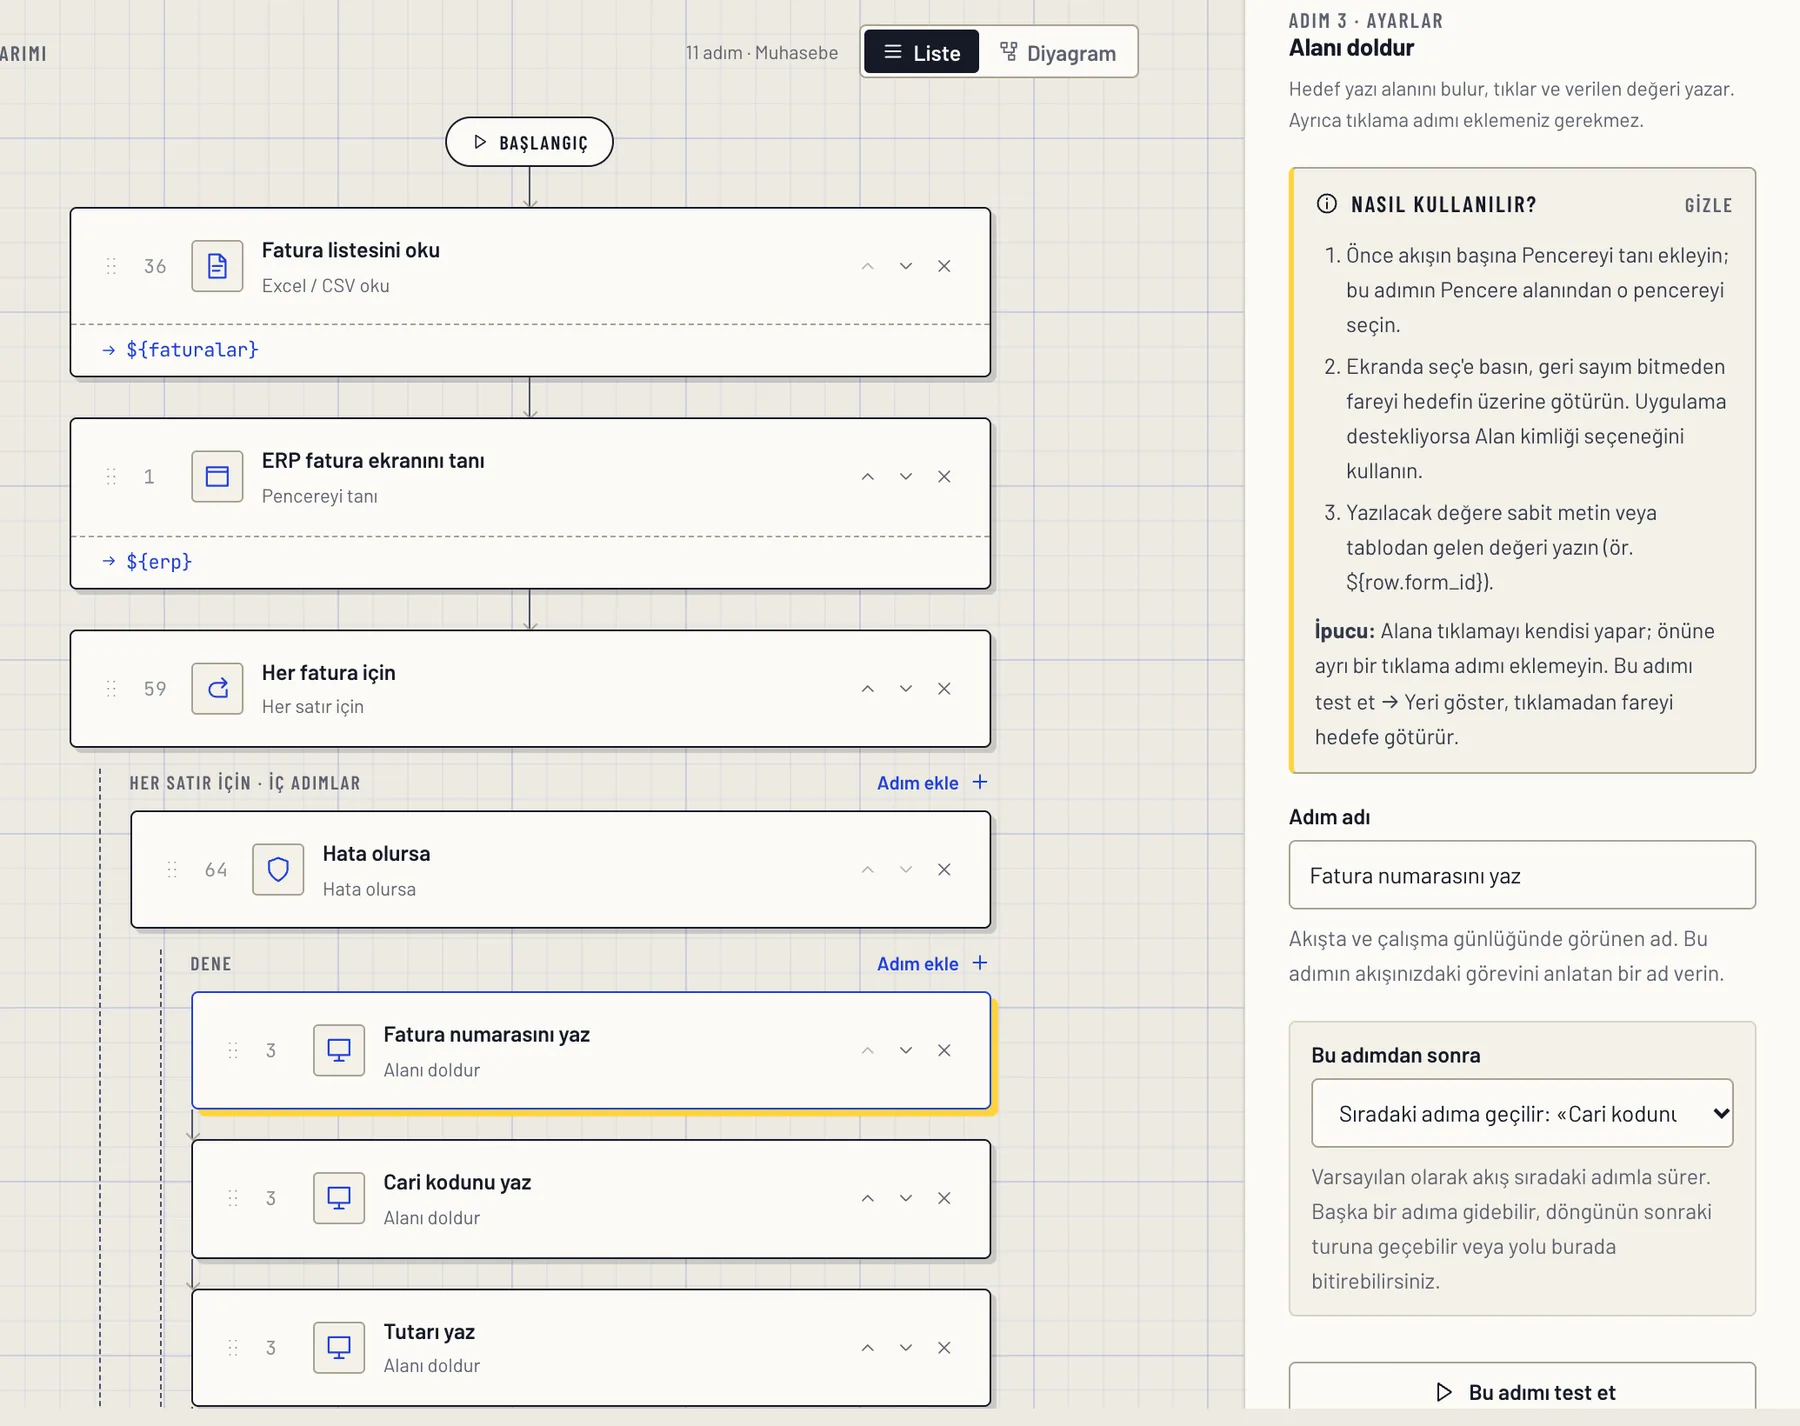
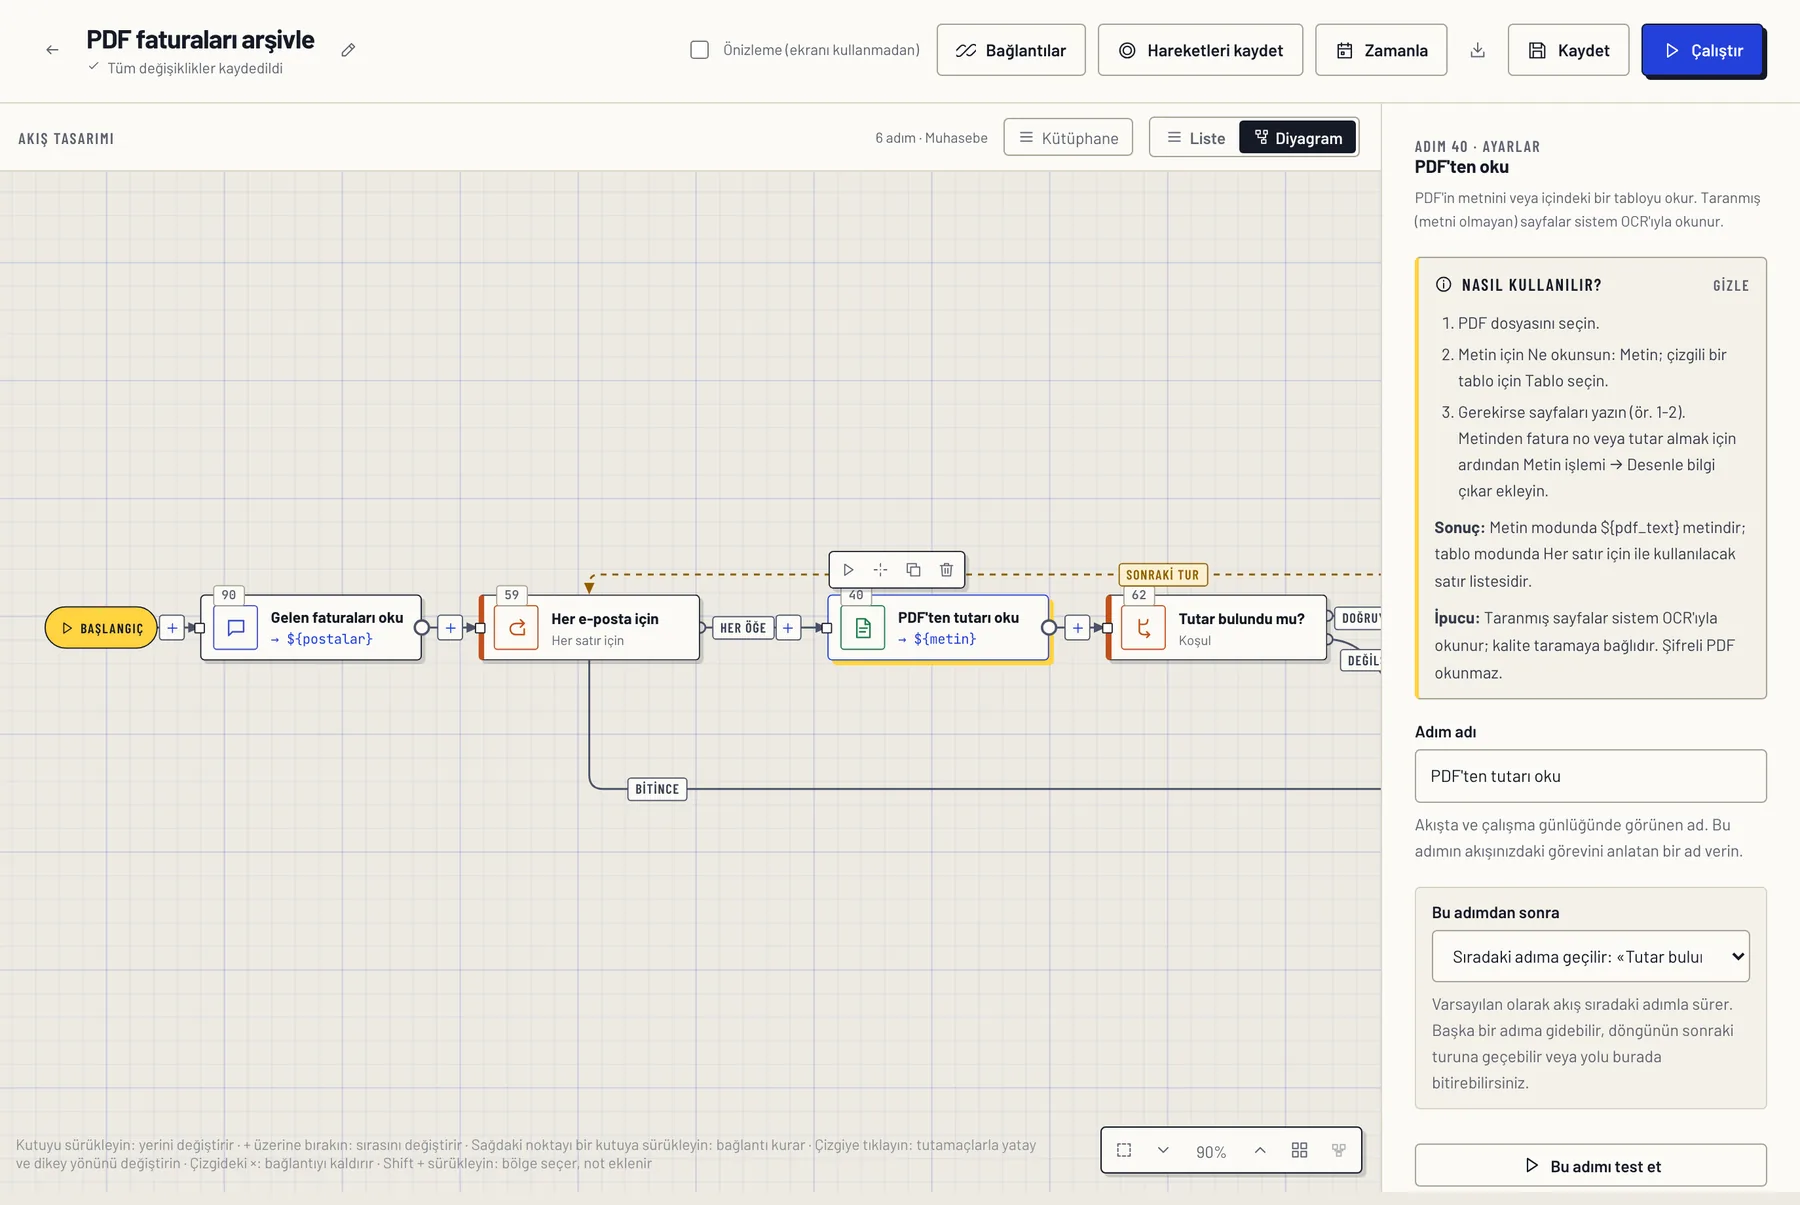
Site: akış görüntüleri diyagram görünümünde
Tanıtım görseli, ürün turunun ilk üç adımı ve altı örnek akış Studio'nun diyagram görünümünden alındı (açık ve koyu
tema); örnek akışlar zincir yerine kendi diyagramlarıyla, büyütmek için tıklanabilir.

Changed region(s): [[0.0, 0.0, 0.9956, 1.0], [0.0, 0.0, 0.2178, 0.0614]]

diff --git a/web/index.html b/web/index.html
@@ -9,7 +9,7 @@
 <title>Peyrev · Masaüstü akış stüdyosu</title>
 <link rel="icon" href="/assets/peyrev-mark-32.png">
 <link rel="apple-touch-icon" href="/assets/peyrev-mark-180.png">
-<link rel="stylesheet" href="/assets/site.css?v=aeb100f76f">
+<link rel="stylesheet" href="/assets/site.css?v=85a8690fc8">
 <script src="/assets/site.js?v=97facf07ab" defer></script>
 </head>
 <body>
@@ -55,8 +55,8 @@
     </div>
     <div class="wrap">
       <figure class="shot shot-hero">
-        <img src="/assets/ekran/editor-koyu.webp" width="2000" height="1250" decoding="async"
-          alt="Peyrev akış düzenleyicisi: solda adım kütüphanesi, ortada Excel'den ERP'ye fatura girişi akışı, sağda kullanım rehberi.">
+        <img src="/assets/ekran/hero-diyagram-koyu.webp" width="2000" height="1250" decoding="async"
+          alt="Peyrev akış düzenleyicisinde diyagram: sipariş kontrolü akışının döngüsü, koşulu ve son çalışmanın izleri; sağda seçili Koşul adımının ayarları.">
       </figure>
     </div>
     <div class="wrap">
@@ -82,8 +82,8 @@
           <p class="tour-step">01 · Tasarlayın</p>
           <h3 id="tur-1">Adımları kütüphaneden seçin, akış kendiliğinden kurulsun.</h3>
           <p>Pencere, fare ve klavye, ekran, dosya ve Excel, veri, Google Sheets, veritabanı, web, e-posta ve API
-            kategorilerindeki 93 adımdan istediğinizi ekleyin. Bir adımın çıktısı sonraki adımda değişken olarak
-            kullanılır; akış liste olarak okunur.</p>
+            kategorilerindeki 93 adımdan istediğinizi diyagrama ekleyin. Bir adımın çıktısı sonraki adımda değişken
+            olarak kullanılır; akış başlangıçtan bitişe soldan sağa okunur.</p>
           <ul class="checks">
             <li>Adım arama ve sık kullanılanlar</li>
             <li>Hareketleri kaydederek adım oluşturma</li>
@@ -94,7 +94,7 @@
           <picture>
             <source media="(prefers-color-scheme: dark)" srcset="/assets/ekran/tur-editor-koyu.webp">
             <img src="/assets/ekran/tur-editor.webp" width="1800" height="1205" loading="lazy" decoding="async"
-              alt="Akış düzenleyicisinde adım kütüphanesi ve fatura girişi akışının adımları.">
+              alt="Diyagram görünümünde adım kütüphanesi ve Excel'den ERP'ye fatura girişi akışının başlangıcı.">
           </picture>
         </figure>
       </article>
@@ -113,8 +113,11 @@
           </ul>
         </div>
         <figure class="shot">
-          <img src="/assets/ekran/tur-diyagram.webp" width="1800" height="704" loading="lazy" decoding="async"
-            alt="Sipariş kontrolü akışının diyagram görünümü: döngü, koşul ve departman raporu adımları.">
+          <picture>
+            <source media="(prefers-color-scheme: dark)" srcset="/assets/ekran/tur-diyagram-koyu.webp">
+            <img src="/assets/ekran/tur-diyagram.webp" width="1800" height="1364" loading="lazy" decoding="async"
+              alt="Kritik stok uyarısı akışının diyagramı: her ürün için döngü, koşulun doğru ve değilse yolları.">
+          </picture>
         </figure>
       </article>
 
@@ -134,8 +137,8 @@
         <figure class="shot">
           <picture>
             <source media="(prefers-color-scheme: dark)" srcset="/assets/ekran/tur-ayar-koyu.webp">
-            <img src="/assets/ekran/tur-ayar.webp" width="1800" height="1426" loading="lazy" decoding="async"
-              alt="Alanı doldur adımının ayarları ve nasıl kullanılır rehberi.">
+            <img src="/assets/ekran/tur-ayar.webp" width="1800" height="1205" loading="lazy" decoding="async"
+              alt="Diyagramda seçili PDF'ten oku adımının ayarları ve nasıl kullanılır rehberi.">
           </picture>
         </figure>
       </article>
@@ -229,61 +232,99 @@
       <div class="section-head center">
         <p class="kicker">Örnek akışlar</p>
         <h2 id="ornek-baslik">Her departmanın tekrar eden bir işi var.</h2>
-        <p class="section-lead">Adların her biri Peyrev'in adım kütüphanesindeki gerçek adımlardır.</p>
+        <p class="section-lead">Diyagramlar Peyrev'de kurulmuş örnek akışlardır; her kutu adım kütüphanesindeki gerçek bir
+          adımdır. Büyütmek için diyagrama tıklayın.</p>
       </div>
       <ul class="examples">
         <li class="example">
-          <p class="example-dept">Muhasebe</p>
-          <h3>Fatura girişi: Excel'den ERP'ye</h3>
-          <p>Excel'deki faturaları ERP'nin fatura ekranına satır satır girer; giremediğini not eder, sonucu e-postayla bildirir.</p>
-          <ol class="chain">
-            <li>Excel / CSV oku</li><li>Pencereyi tanı</li><li class="loop">Her satır için</li><li>Alanı doldur</li>
-            <li>Pencerede tıkla</li><li class="guard">Hata olursa</li><li>E-posta gönder</li>
-          </ol>
+          <div class="example-text">
+            <p class="example-dept">Muhasebe</p>
+            <h3>Fatura girişi: Excel'den ERP'ye</h3>
+            <p>Excel'deki faturaları ERP'nin fatura ekranına satır satır girer; giremediğini not eder, işlenenleri raporlar ve muhasebeye e-postayla bildirir.</p>
+          </div>
+          <a class="example-diagram" href="/assets/ekran/akis/fatura.webp" target="_blank" rel="noopener"
+            aria-label="Fatura girişi: Excel'den ERP'ye diyagramını büyük aç">
+            <picture>
+              <source media="(prefers-color-scheme: dark)" srcset="/assets/ekran/akis/fatura-koyu.webp">
+              <img src="/assets/ekran/akis/fatura.webp" width="2400" height="249" loading="lazy" decoding="async"
+                alt="Fatura girişi: Excel'den ERP'ye akışının Peyrev'deki diyagramı.">
+            </picture>
+          </a>
         </li>
         <li class="example">
-          <p class="example-dept">Finans</p>
-          <h3>Günlük döviz kurları</h3>
-          <p>Kur sayfasındaki tabloyu okur, Excel'e yazar ve ekibe mesaj gönderir. Her sabah 09.00'da kendiliğinden.</p>
-          <ol class="chain">
-            <li>Web sayfası aç</li><li>Web tablosunu oku</li><li>Excel / CSV'ye yaz</li><li>Mesaj gönder</li>
-          </ol>
+          <div class="example-text">
+            <p class="example-dept">Finans</p>
+            <h3>Günlük döviz kurları</h3>
+            <p>Kur sayfasındaki tabloyu okur, Excel'e yazar ve ekibe Telegram'dan bildirir. Hafta içi her sabah 09.00'da kendiliğinden.</p>
+          </div>
+          <a class="example-diagram" href="/assets/ekran/akis/kur.webp" target="_blank" rel="noopener"
+            aria-label="Günlük döviz kurları diyagramını büyük aç">
+            <picture>
+              <source media="(prefers-color-scheme: dark)" srcset="/assets/ekran/akis/kur-koyu.webp">
+              <img src="/assets/ekran/akis/kur.webp" width="2400" height="262" loading="lazy" decoding="async"
+                alt="Günlük döviz kurları akışının Peyrev'deki diyagramı.">
+            </picture>
+          </a>
         </li>
         <li class="example">
-          <p class="example-dept">Muhasebe</p>
-          <h3>PDF faturaları arşivle</h3>
-          <p>Gelen kutusundaki faturaların PDF'ini okur; tutar bulunursa ay klasörüne taşır, bulunamazsa kontrole bırakır.</p>
-          <ol class="chain">
-            <li>E-postaları oku</li><li class="loop">Her satır için</li><li>PDF'ten oku</li><li class="branch">Koşul</li>
-            <li>Dosya kopyala / taşı</li>
-          </ol>
+          <div class="example-text">
+            <p class="example-dept">Muhasebe</p>
+            <h3>PDF faturaları arşivle</h3>
+            <p>Gelen kutusundaki faturaların PDF'ini okur; tutar bulunursa ay klasörüne taşır, bulunamazsa kontrole bırakır.</p>
+          </div>
+          <a class="example-diagram" href="/assets/ekran/akis/pdf.webp" target="_blank" rel="noopener"
+            aria-label="PDF faturaları arşivle diyagramını büyük aç">
+            <picture>
+              <source media="(prefers-color-scheme: dark)" srcset="/assets/ekran/akis/pdf-koyu.webp">
+              <img src="/assets/ekran/akis/pdf.webp" width="2400" height="393" loading="lazy" decoding="async"
+                alt="PDF faturaları arşivle akışının Peyrev'deki diyagramı.">
+            </picture>
+          </a>
         </li>
         <li class="example">
-          <p class="example-dept">Depo</p>
-          <h3>Kritik stok uyarısı</h3>
-          <p>Veritabanındaki stokları iki saatte bir denetler; eşiğin altındaki ürünleri satın almaya bildirir.</p>
-          <ol class="chain">
-            <li>Veritabanı sorgusu</li><li class="loop">Her satır için</li><li class="branch">Koşul</li>
-            <li>Listeye ekle</li><li>Mesaj gönder</li>
-          </ol>
+          <div class="example-text">
+            <p class="example-dept">Depo</p>
+            <h3>Kritik stok uyarısı</h3>
+            <p>Veritabanındaki stokları iki saatte bir denetler; eşiğin altındaki ürünleri listeler ve satın almaya bildirir.</p>
+          </div>
+          <a class="example-diagram" href="/assets/ekran/akis/stok.webp" target="_blank" rel="noopener"
+            aria-label="Kritik stok uyarısı diyagramını büyük aç">
+            <picture>
+              <source media="(prefers-color-scheme: dark)" srcset="/assets/ekran/akis/stok-koyu.webp">
+              <img src="/assets/ekran/akis/stok.webp" width="2400" height="392" loading="lazy" decoding="async"
+                alt="Kritik stok uyarısı akışının Peyrev'deki diyagramı.">
+            </picture>
+          </a>
         </li>
         <li class="example">
-          <p class="example-dept">Satış</p>
-          <h3>Web formuna toplu kayıt</h3>
-          <p>Google Sheets'teki müşteri listesini web paneline tek tek girer ve her satırın sonucunu tabloya geri yazar.</p>
-          <ol class="chain">
-            <li>Sheets satırlarını oku</li><li>Web sayfası aç</li><li class="loop">Her satır için</li>
-            <li>Web alanını doldur</li><li>Web öğesine tıkla</li><li>Sheets hücresine yaz</li>
-          </ol>
+          <div class="example-text">
+            <p class="example-dept">Satış</p>
+            <h3>Web formuna toplu kayıt</h3>
+            <p>Google Sheets'teki müşteri listesini web paneline tek tek girer ve her satırın sonucunu tabloya geri yazar.</p>
+          </div>
+          <a class="example-diagram" href="/assets/ekran/akis/web.webp" target="_blank" rel="noopener"
+            aria-label="Web formuna toplu kayıt diyagramını büyük aç">
+            <picture>
+              <source media="(prefers-color-scheme: dark)" srcset="/assets/ekran/akis/web-koyu.webp">
+              <img src="/assets/ekran/akis/web.webp" width="2400" height="214" loading="lazy" decoding="async"
+                alt="Web formuna toplu kayıt akışının Peyrev'deki diyagramı.">
+            </picture>
+          </a>
         </li>
         <li class="example">
-          <p class="example-dept">İnsan kaynakları</p>
-          <h3>Bordro dosyalarını dağıt</h3>
-          <p>Klasördeki bordro PDF'lerini listeler, dosya adındaki sicile göre çalışana e-postayla gönderir.</p>
-          <ol class="chain">
-            <li>Klasördeki dosyaları listele</li><li class="loop">Her satır için</li><li>Metin işlemi</li>
-            <li>Veritabanı sorgusu</li><li>E-posta gönder</li>
-          </ol>
+          <div class="example-text">
+            <p class="example-dept">İnsan kaynakları</p>
+            <h3>Bordro dosyalarını dağıt</h3>
+            <p>Klasördeki bordro PDF'lerini listeler, dosya adındaki sicile göre çalışanı bulur ve bordrosunu e-postayla gönderir.</p>
+          </div>
+          <a class="example-diagram" href="/assets/ekran/akis/bordro.webp" target="_blank" rel="noopener"
+            aria-label="Bordro dosyalarını dağıt diyagramını büyük aç">
+            <picture>
+              <source media="(prefers-color-scheme: dark)" srcset="/assets/ekran/akis/bordro-koyu.webp">
+              <img src="/assets/ekran/akis/bordro.webp" width="2400" height="344" loading="lazy" decoding="async"
+                alt="Bordro dosyalarını dağıt akışının Peyrev'deki diyagramı.">
+            </picture>
+          </a>
         </li>
       </ul>
     </div>

diff --git a/web/assets/site.css b/web/assets/site.css
@@ -226,24 +226,22 @@ main:focus { outline: none; }
 .shot-small { margin: 40px auto 0; max-width: 900px; background: var(--night-2);
   box-shadow: 0 0 0 1px var(--night-line), 0 30px 80px rgb(0 0 0 / 0.5); }
 
-/* ----- örnek akışlar --------------------------------------------------------------------------- */
-.examples { list-style: none; margin: 0; padding: 0; display: grid; gap: 16px;
-  grid-template-columns: repeat(auto-fit, minmax(min(100%, 340px), 1fr)); }
-.example { display: grid; gap: 12px; align-content: start; padding: 26px; border-radius: var(--radius);
-  background: var(--surface); border: 1px solid var(--line); box-shadow: var(--shadow); }
-.example h3 { font-size: 1.1875rem; }
-.example > p:not(.example-dept) { color: var(--muted); font-size: 0.9625rem; }
+/* ----- örnek akışlar: başlık ve açıklama, altında Peyrev'deki diyagramı ----------------------------------- */
+.examples { list-style: none; margin: 0; padding: 0; display: grid; gap: 20px; }
+.example { display: grid; gap: 18px; padding: 24px; border-radius: var(--radius); background: var(--surface);
+  border: 1px solid var(--line); box-shadow: var(--shadow); }
+@media (min-width: 900px) { .example { padding: 28px 30px; } }
+.example-text { display: grid; gap: 8px; }
+@media (min-width: 900px) { .example-text { grid-template-columns: minmax(0, 0.9fr) minmax(0, 1.3fr); column-gap: 32px;
+  align-items: start; } .example-text > p:not(.example-dept) { grid-column: 2; grid-row: 1 / span 2; } }
+.example h3 { font-size: 1.25rem; }
+.example-text > p:not(.example-dept) { color: var(--muted); font-size: 0.9625rem; }
 .example-dept { justify-self: start; font-size: 0.75rem; font-weight: 750; letter-spacing: 0.06em; text-transform: uppercase;
   padding: 3px 10px; border-radius: 6px; border: 1px solid var(--line); color: var(--muted); }
-.chain { list-style: none; margin: 6px 0 0; padding: 0; display: flex; flex-wrap: wrap; gap: 6px 4px; align-items: center; }
-.chain li { font-size: 0.8125rem; font-weight: 650; padding: 5px 10px; border-radius: 8px; background: var(--surface-2);
-  border: 1px solid var(--line); }
-.chain li + li::before { content: "→"; margin: 0 6px 0 -2px; color: var(--muted); font-weight: 500; }
-.chain li { display: inline-flex; align-items: center; }
-.chain li + li { border-left-width: 1px; }
-.chain .loop { background: rgb(48 71 224 / 0.10); border-color: rgb(48 71 224 / 0.3); }
-.chain .branch { background: rgb(227 183 101 / 0.16); border-color: rgb(227 183 101 / 0.45); }
-.chain .guard { background: rgb(161 39 30 / 0.08); border-color: rgb(161 39 30 / 0.3); }
+.example-diagram { display: block; border-radius: 12px; overflow: hidden; border: 1px solid var(--line);
+  background: var(--surface-2); overflow-x: auto; }
+.example-diagram img { width: 100%; min-width: 760px; }
+.example-diagram:hover { border-color: var(--link); }
 
 /* ----- adım kütüphanesi ------------------------------------------------------------------------ */
 .catalog { list-style: none; margin: 0; padding: 0; display: grid; gap: 12px;

diff --git a/web/egitim/index.html b/web/egitim/index.html
@@ -10,7 +10,7 @@
 <title>Eğitim · Peyrev</title>
 <link rel="icon" href="/assets/peyrev-mark-32.png">
 <link rel="apple-touch-icon" href="/assets/peyrev-mark-180.png">
-<link rel="stylesheet" href="/assets/site.css?v=aeb100f76f">
+<link rel="stylesheet" href="/assets/site.css?v=85a8690fc8">
 <script src="/assets/egitim.js?v=9c93464758" defer></script>
 </head>
 <body>
